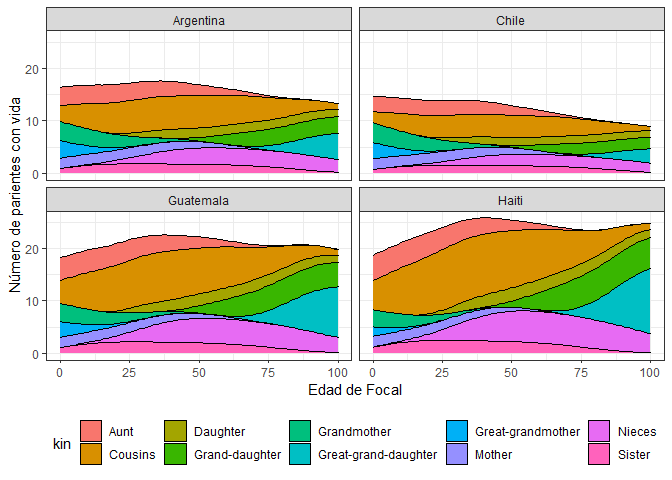
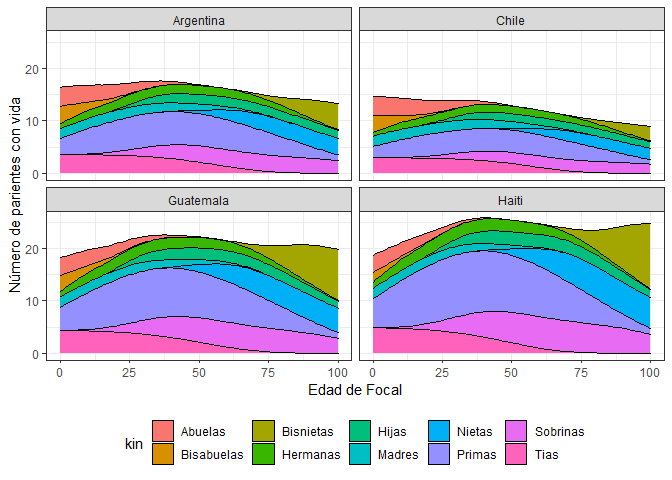
code folding test

Changed region(s): [[0.0625, 0.4375, 0.9688, 0.75], [0.0625, 0.1562, 0.9688, 0.375], [0.0625, 0.875, 0.9688, 0.9688]]

diff --git a/README.md b/README.md
@@ -7,7 +7,7 @@ Pre-evento del X Congreso ALAP; Valparaíso, Chile - 6 Dic 2022
     Parentesco](#primera-parte-introducción-a-la-demografía-del-parentesco)
   - [Segunda parte: modelos de parentesco en
     R](#segunda-parte-modelos-de-parentesco-en-r)
-      - [1. Instalación de DemoKin](#1-instalación-de-demokin)
+      - [1. Instalación](#1-instalación)
       - [2. Cómo descargar datos de Naciones Unidas para este
         taller](#2-cómo-descargar-datos-de-naciones-unidas-para-este-taller)
       - [3. La función `kin()`](#3-la-función-kin)
@@ -32,14 +32,16 @@ Pre-evento del X Congreso ALAP; Valparaíso, Chile - 6 Dic 2022
 
 # Primera parte: Introducción a la Demografía del Parentesco
 
-Las diapositivas para la primera parte están disponibles
-[aquí](diapositivas/).
+Las diapositivas para la primera parte del minicurso están disponibles
+[aquí](diapositivas/alap_presentacion_parentesco.pdf).
 
 # Segunda parte: modelos de parentesco en R
 
 <img src="DemoKin-Logo.png" align="right" width="200" />
 
-## 1\. Instalación de DemoKin
+## 1\. Instalación
+
+### 1.1 Instalación de DemoKin
 
 Instale el paquete `DemoKin` [desde
 GitHub](https://github.com/IvanWilli/DemoKin) (puede tomar \~1 minuto).
@@ -50,7 +52,12 @@ GitHub](https://github.com/IvanWilli/DemoKin) (puede tomar \~1 minuto).
 devtools::install_github("IvanWilli/DemoKin", build_vignettes = TRUE)
 ```
 
-Cargue algunos paquetes:
+### 1\. 2. Otros paquetes
+
+Cargue algunos paquetes que usaremos para este minicurso:
+
+> Nota si alguen paquete no está instalados en su computadora, instálelo
+> usando el comando `install.packages("dplyr")`, etc.
 
 ``` r
 library(DemoKin)
@@ -61,19 +68,16 @@ library(ggplot2)
 library(fields)
 ```
 
-## 2\. Cómo descargar datos de Naciones Unidas para este taller
+### 1.3. Defina algunas funciones para los ejercicios
 
-Vamos a usar el API del [World Population
-Prospects 2022](https://population.un.org/wpp/) para descargar los datos
-que necesitamos para DemoKin.
-
-Para esto, primero definimos una función para cargar los datos
-directamente a la sesión de R:
+Una función para descargar datos de Naciones Unidas (UNWPP2022) usando
+el API:
 
 ``` r
 get_UNWPP_inputs <- function(countries, my_startyr, my_endyr, variant = "Median"){
 
   print("Getting API ready...")
+  print("Make sure you have a working internet connection!")
   # Get data from UN using API
   
   base_url <- 'https://population.un.org/dataportalapi/api/v1'
@@ -147,7 +151,8 @@ get_UNWPP_inputs <- function(countries, my_startyr, my_endyr, variant = "Median"
 }
 ```
 
-Otras funciones utiles que usaremos más adelante:
+Una función para mostrar nombre de parientes en español (con una ligera
+modificaión respecto a `DemoKin::rename_kin`:
 
 ``` r
 # A small hack on the existing rename_kin function to make sure it keeps all columns
@@ -155,11 +160,11 @@ rename_kin2 <- function (df, consolidate_column = "no") {
   stopifnot(`Argument 'consolidate_column' should be 'no' or a valid column name` = consolidate_column %in% 
     c("no", colnames(df)))
   if (consolidate_column == "no") {
-    relatives <- c("Cousins from older aunt", "Cousins from younger aunt", 
-      "Daughter", "Grand-daughter", "Great-grand-daughter", 
-      "Great-grandmother", "Grandmother", "Mother", "Nieces from older sister", 
-      "Nieces from younger sister", "Aunt older than mother", 
-      "Aunt younger than mother", "Older sister", "Younger sister")
+    relatives <- c("Primos por tia mayor", "Primos por tia menor", 
+      "Hija", "Nieta", "Bisnieta", 
+      "Bisabuela", "Abuela", "Madre", "Sobrinas por hermana mayor", 
+      "Sobrinas por hermana menor", "Tia mayor que madre", 
+      "Tia menor que madre", "Hermana mayor", "Hermana menor")
     names(relatives) <- c("coa", "cya", "d", "gd", "ggd", 
       "ggm", "gm", "m", "nos", "nys", "oa", "ya", "os", 
       "ys")
@@ -170,9 +175,9 @@ rename_kin2 <- function (df, consolidate_column = "no") {
     names(consolidate_vec) <- c("coa", "cya", "d", "gd", 
       "ggd", "ggm", "gm", "m", "nos", "nys", "oa", "ya", 
       "os", "ys")
-    relatives <- c("Cousins", "Daughter", "Grand-daughter", 
-      "Great-grand-daughter", "Great-grandmother", "Grandmother", 
-      "Mother", "Nieces", "Aunt", "Sister")
+    relatives <- c("Primas", "Hijas", "Nietas", 
+      "Bisnietas", "Bisabuelas", "Abuelas", 
+      "Madres", "Sobrinas", "Tias", "Hermanas")
     names(relatives) <- unique(consolidate_vec)
     df <- as.data.frame(df)
     df$count <- df[, consolidate_column]
@@ -189,9 +194,34 @@ rename_kin2 <- function (df, consolidate_column = "no") {
 }
 ```
 
-Ahora, usemos la función `get_UNWPP_inputs` para descargar los datos que
-necesitamos para nuestro modelos de parentesco. Para este ejemplo,
-usemos datos de Guatemala:
+Una función que nos permite aproximar parientes masculinos y femeninos
+usando “factores GKP”:
+
+``` r
+# A function to apply GKP factors to a female-only population to approximate kin counts for a two-sex population by multiplying daughters by 2, granddaughters by 4, etc. 
+approx_two_sex <- function(df){
+      factors <- c("coa" = 8, "cya" = 8, "d" = 2, "gd" = 4, "ggd" = 8, "ggm" = 8, "gm" = 4, "m" = 2, "nos" = 4, "nys" = 4, "oa" = 4, "ya" = 4, "os" = 2, "ys" = 2)
+
+df <- as.data.frame(df)
+factors_vec <- factors[df$kin]
+df$count_living <- df$count_living*factors_vec
+df$count_dead <- df$count_dead*factors_vec
+drop <- c("mean_age", "sd_age", "count_cum_dead", "mean_age_lost")
+print("Note: approx_two_sex only keeps columns with data on kin counts!")
+print(paste0("Dropping columns: ", paste(drop, collapse = ", ")))
+df[,!(names(df) %in% drop)]
+}
+```
+
+## 2\. Cómo descargar datos de Naciones Unidas para este taller
+
+Vamos a usar el API del [World Population
+Prospects 2022](https://population.un.org/wpp/) para descargar los datos
+que necesitamos para DemoKin.
+
+Para esto, usaremos la función `get_UNWPP_inputs` (definida arriba).
+**Nota: Necesita estar conectado a internet para usar esta función\!**
+Para este ejemplo, usemos datos de Guatemala:
 
 ``` r
 # pick countries
@@ -210,6 +240,7 @@ data <- get_UNWPP_inputs(
 ```
 
     ## [1] "Getting API ready..."
+    ## [1] "Make sure you have a working internet connection!"
     ## [1] "Getting mortality data for Guatemala"
     ## [1] "Getting fertility data for Guatemala"
 
@@ -260,7 +291,7 @@ image.plot(
   )
 ```
 
-![](README_files/figure-gfm/unnamed-chunk-8-1.png)<!-- -->
+![](README_files/figure-gfm/unnamed-chunk-9-1.png)<!-- -->
 
 #### 2.2. `gt_asfr` matriz; tasas específicas de fecundidad (argumento *f* en DemoKin)
 
@@ -290,7 +321,7 @@ image.plot(
   )
 ```
 
-![](README_files/figure-gfm/unnamed-chunk-10-1.png)<!-- -->
+![](README_files/figure-gfm/unnamed-chunk-11-1.png)<!-- -->
 
 ## 3\. La función `kin()`
 
@@ -400,7 +431,15 @@ Esta es una data frame que resume el contenido de `kin_full`. Para
 producirla, sumamos los valores a lo largo de todas las edades de los
 parientes. Esto produce una data frame con el número esperado de
 parientes por año/cohorte y edad de Focal (pero *no* por edad del
-pariente). Así derivamos `kin_summary`:
+pariente).
+
+Así derivamos `kin_summary`:
+
+<details>
+
+<summary>CLICK ME</summary>
+
+<p>
 
 ``` r
 kin_by_age_focal <- 
@@ -421,6 +460,10 @@ kin_by_age_focal %>%
 ```
 
     ## [1] TRUE
+
+</p>
+
+</details>
 
 ## 4\. Demostración: tamaño de redes familiares en Guatemala (poblaciones estables)
 
@@ -455,7 +498,7 @@ gt_2015$kin_summary %>%
   plot_diagram(rounding = 2)
 ```
 
-![](README_files/figure-gfm/unnamed-chunk-17-1.png)<!-- -->
+![](README_files/figure-gfm/unnamed-chunk-18-1.png)<!-- -->
 
 ### 4.2. Parentela viva
 
@@ -475,7 +518,7 @@ gt_2015$kin_summary %>%
   facet_wrap(~kin)
 ```
 
-![](README_files/figure-gfm/unnamed-chunk-18-1.png)<!-- -->
+![](README_files/figure-gfm/unnamed-chunk-19-1.png)<!-- -->
 
 Podemos mostrar todo en una gráfica para visualizar el tamaño absoluto
 de las redes familiares femeninas de Focal:
@@ -499,7 +542,7 @@ gt_2015$kin_summary %>%
   theme(legend.position = "bottom")
 ```
 
-![](README_files/figure-gfm/unnamed-chunk-19-1.png)<!-- -->
+![](README_files/figure-gfm/unnamed-chunk-20-1.png)<!-- -->
 
 ### 4.3. Distribución etaria de la parentela con vida
 
@@ -520,7 +563,7 @@ gt_2015$kin_full %>%
   facet_wrap(~kin)
 ```
 
-![](README_files/figure-gfm/unnamed-chunk-20-1.png)<!-- -->
+![](README_files/figure-gfm/unnamed-chunk-21-1.png)<!-- -->
 
 ### 4.4. Pérdidas familiares
 
@@ -557,7 +600,7 @@ gt_2015$kin_summary %>%
     ## `summarise()` has grouped output by 'age_focal'. You can override using the
     ## `.groups` argument.
 
-![](README_files/figure-gfm/unnamed-chunk-21-1.png)<!-- -->
+![](README_files/figure-gfm/unnamed-chunk-22-1.png)<!-- -->
 
 La suma de estos valores equivale al número acumulado de pérdidas
 familiares experimentado por Focal cuando ella tiene 0,1,2,… años.
@@ -586,7 +629,7 @@ gt_2015$kin_summary %>%
     ## `summarise()` has grouped output by 'age_focal'. You can override using the
     ## `.groups` argument.
 
-![](README_files/figure-gfm/unnamed-chunk-22-1.png)<!-- -->
+![](README_files/figure-gfm/unnamed-chunk-23-1.png)<!-- -->
 
 Por ejemplo, cuando Focal alcanza los 15, 50 y 65 años de edad, habrá
 perdido un promedio de 0.6, 2.8, 4.2 parientes.
@@ -634,6 +677,7 @@ data <- get_UNWPP_inputs(
 ```
 
     ## [1] "Getting API ready..."
+    ## [1] "Make sure you have a working internet connection!"
     ## [1] "Getting mortality data for Argentina, Haiti, Chile, Guatemala"
     ## [1] "Getting fertility data for Argentina, Haiti, Chile, Guatemala"
 
@@ -655,25 +699,6 @@ period_kin <-
     ## [1] "Chile 2022"
     ## [1] "Guatemala 2022"
     ## [1] "Haiti 2022"
-
-Primero, definimos una función que nos permite aproximar parientes
-masculinos y femeninos (usando “factores GKP”):
-
-``` r
-# A function to apply GKP factors to a female-only population to approximate kin counts for a two-sex population by multiplying daughters by 2, granddaughters by 4, etc. 
-approx_two_sex <- function(df){
-      factors <- c("coa" = 8, "cya" = 8, "d" = 2, "gd" = 4, "ggd" = 8, "ggm" = 8, "gm" = 4, "m" = 2, "nos" = 4, "nys" = 4, "oa" = 4, "ya" = 4, "os" = 2, "ys" = 2)
-
-df <- as.data.frame(df)
-factors_vec <- factors[df$kin]
-df$count_living <- df$count_living*factors_vec
-df$count_dead <- df$count_dead*factors_vec
-drop <- c("mean_age", "sd_age", "count_cum_dead", "mean_age_lost")
-print("Note: approx_two_sex only keeps columns with data on kin counts!")
-print(paste0("Dropping columns: ", paste(drop, collapse = ", ")))
-df[,!(names(df) %in% drop)]
-}
-```
 
 Ahora podemos visualizar algunos la estructura de parentesco en estos
 países. Comenzamos con la estructura familiar:
@@ -825,6 +850,7 @@ data <- get_UNWPP_inputs(
 ```
 
     ## [1] "Getting API ready..."
+    ## [1] "Make sure you have a working internet connection!"
     ## [1] "Getting mortality data for Argentina, Haiti, Chile, Guatemala"
     ## [1] "Getting fertility data for Argentina, Haiti, Chile, Guatemala"
 
